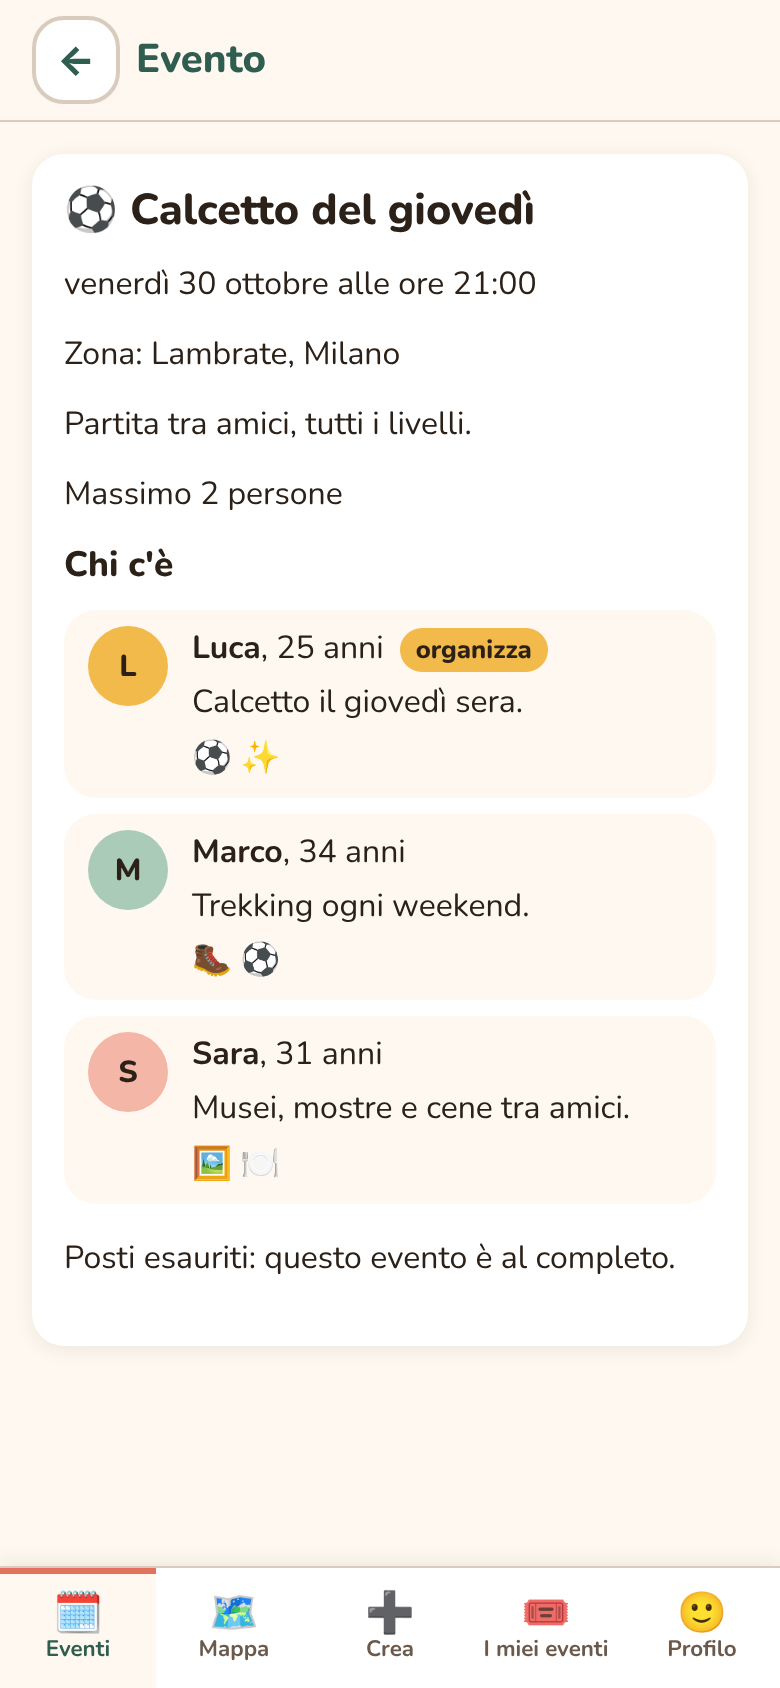
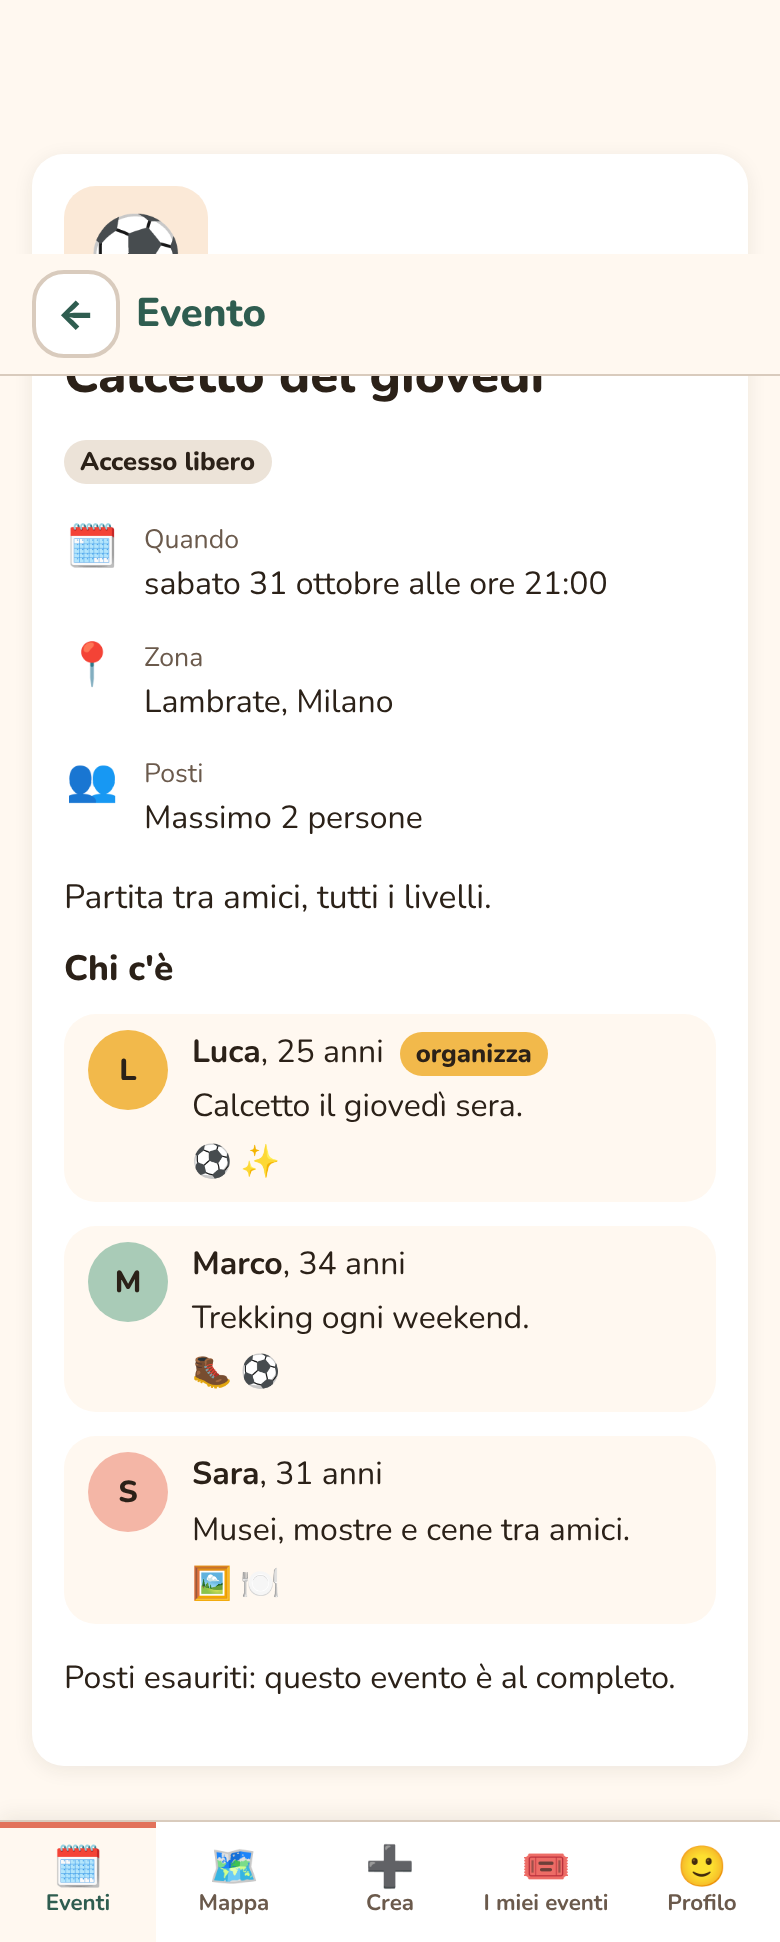
Task 24: schede evento, dettaglio con righe informative, stati vuoti
Claude-Session: https://claude.ai/code/session_01MWVcDmXPz6RAkLiwmBzRiP

diff --git a/src/screens/MyEventsScreen.tsx b/src/screens/MyEventsScreen.tsx
@@ -1,10 +1,10 @@
 import { useState } from 'react'
 import { useServices } from '../app/ServicesContext'
-import { EVENT_TYPE_EMOJI } from '../domain/eventTypes'
 import { cancelEvent } from '../events/cancelEvent'
-import { formatEventDate } from '../events/format'
 import { useMine } from '../mine/useMine'
 import { withdrawFromEvent } from '../participation/withdrawFromEvent'
+import { EmptyState } from '../ui/EmptyState'
+import { EventCard } from '../ui/EventCard'
 
 const STATO_LABEL = { richiesta: 'In attesa di risposta', confermato: 'Confermato', rifiutato: 'Rifiutato' } as const
 
@@ -26,41 +26,42 @@ export function MyEventsScreen({ uid, onOpen }: { uid: string; onOpen: (eventId:
   }
 
   return (
-    <section className="card">
+    <section className="screen">
       <h2>Che organizzo</h2>
       {loading && <p className="loading">Caricamento…</p>}
       {failed && <p role="alert" className="error">Non riesco a caricare i tuoi eventi.</p>}
       {error && <p role="alert" className="error">{error}</p>}
-      {!loading && !failed && mine.organized.length === 0 && <p>Non organizzi ancora nessun evento.</p>}
+      {!loading && !failed && mine.organized.length === 0 && <EmptyState emoji="🎈" text="Non organizzi ancora nessun evento." />}
       <ul className="event-list">
         {mine.organized.map((event) => (
           <li key={event.id}>
-            <button type="button" className="event-item" onClick={() => onOpen(event.id)}>
-              <span aria-hidden="true">{EVENT_TYPE_EMOJI[event.tipo]}</span> {event.titolo}
-              <small>{formatEventDate(event.dataOra)} · {event.stato === 'annullato' ? 'Annullato' : event.zonaNome}</small>
-            </button>
-            {event.stato !== 'annullato' && (
-              <button type="button" className="link" onClick={() => void run(() => cancelEvent(services.events, event.id, uid))}>
-                Annulla evento
-              </button>
-            )}
+            <EventCard
+              event={event}
+              onOpen={() => onOpen(event.id)}
+              footer={event.stato !== 'annullato' && (
+                <button type="button" className="link" onClick={() => void run(() => cancelEvent(services.events, event.id, uid))}>
+                  Annulla evento
+                </button>
+              )}
+            />
           </li>
         ))}
       </ul>
       <h2>Le mie iscrizioni</h2>
-      {!loading && !failed && mine.joined.length === 0 && <p>Non sei iscritto a nessun evento.</p>}
+      {!loading && !failed && mine.joined.length === 0 && <EmptyState emoji="👋" text="Non sei iscritto a nessun evento." />}
       <ul className="event-list">
         {mine.joined.map(({ event, participation }) => (
           <li key={event.id}>
-            <button type="button" className="event-item" onClick={() => onOpen(event.id)}>
-              <span aria-hidden="true">{EVENT_TYPE_EMOJI[event.tipo]}</span> {event.titolo}
-              <small>
-                {formatEventDate(event.dataOra)} · {event.stato === 'annullato' ? 'Evento annullato' : STATO_LABEL[participation.stato]}
-              </small>
-            </button>
-            <button type="button" className="link" onClick={() => void run(() => withdrawFromEvent(services.participations, event.id, uid))}>
-              {participation.stato === 'richiesta' ? 'Ritira la richiesta' : 'Ritirati'}
-            </button>
+            <EventCard
+              event={event}
+              onOpen={() => onOpen(event.id)}
+              note={event.stato === 'annullato' ? undefined : STATO_LABEL[participation.stato]}
+              footer={
+                <button type="button" className="link" onClick={() => void run(() => withdrawFromEvent(services.participations, event.id, uid))}>
+                  {participation.stato === 'richiesta' ? 'Ritira la richiesta' : 'Ritirati'}
+                </button>
+              }
+            />
           </li>
         ))}
       </ul>

diff --git a/src/styles/event-card.css b/src/styles/event-card.css
@@ -1,0 +1,31 @@
+/* Scheda evento, riga informativa del dettaglio, stato vuoto. */
+.event-card { background: var(--color-surface); border-radius: var(--radius); box-shadow: var(--shadow-card); overflow: hidden; }
+.event-card.is-cancelled { opacity: 0.75; }
+.event-card-main {
+  display: flex; gap: var(--space-3); align-items: flex-start; width: 100%; text-align: left;
+  background: none; border-radius: 0; padding: var(--space-4); font-weight: 400; min-height: 0;
+}
+.event-card-body { display: flex; flex-direction: column; gap: 2px; min-width: 0; }
+.event-card-title { font-weight: 800; font-size: 1.1rem; line-height: 1.25; }
+.event-card-meta { color: var(--color-muted); font-size: 0.92rem; }
+.event-card-badges { display: flex; flex-wrap: wrap; gap: var(--space-1) var(--space-2); margin-top: var(--space-2); }
+.event-card > button.link { margin: 0 var(--space-2) var(--space-2); }
+.event-emoji {
+  flex: none; display: inline-flex; align-items: center; justify-content: center;
+  width: 52px; height: 52px; border-radius: 16px; font-size: 1.7rem; background: #fbe9d7;
+}
+.event-emoji-lg { width: 72px; height: 72px; font-size: 2.4rem; }
+.type-trekking, .type-passeggiata { background: #dcebe3; }
+.type-mostra, .type-altro { background: #fbefc9; }
+.badge-neutral { background: #ece3d8; }
+.badge-accent { background: var(--color-accent); }
+.badge-warn { background: #f6d5d1; color: #7a1913; }
+.event-hero { display: flex; flex-direction: column; align-items: flex-start; gap: var(--space-2); margin-bottom: var(--space-4); }
+.event-hero h2 { margin: 0; font-size: 1.6rem; }
+.info-rows { list-style: none; padding: 0; margin: 0 0 var(--space-4); display: grid; gap: var(--space-3); }
+.info-row { display: flex; gap: var(--space-3); align-items: flex-start; }
+.info-icon { font-size: 1.3rem; width: 28px; text-align: center; }
+.event-description { font-size: 1.05rem; }
+.empty-state { text-align: center; color: var(--color-muted); padding: var(--space-6) var(--space-4); }
+.empty-emoji { display: block; font-size: 3rem; margin-bottom: var(--space-2); }
+.empty-state p { margin: 0; font-weight: 700; }

diff --git a/src/screens/EventListScreen.tsx b/src/screens/EventListScreen.tsx
@@ -1,10 +1,10 @@
 import { useMemo, useState } from 'react'
 import { useServices } from '../app/ServicesContext'
-import { EVENT_TYPE_EMOJI } from '../domain/eventTypes'
-import { formatEventDate } from '../events/format'
 import { useUpcomingEvents } from '../events/useUpcomingEvents'
 import { filterEvents, NO_FILTERS, type EventFilters } from '../filters/eventFilters'
 import { useMyPosition } from '../filters/useMyPosition'
+import { EmptyState } from '../ui/EmptyState'
+import { EventCard } from '../ui/EventCard'
 import { FiltersBar } from './FiltersBar'
 
 interface Props {
@@ -20,20 +20,15 @@ export function EventListScreen({ onOpen }: Props) {
   const shown = useMemo(() => filterEvents(list, filters), [list, filters])
 
   return (
-    <section className="card">
+    <section className="screen">
       <FiltersBar filters={filters} onChange={setFilters} position={position} onAskPosition={ask} />
       {loading && <p className="loading">Caricamento…</p>}
       {failed && <p role="alert" className="error">Non riesco a caricare gli eventi.</p>}
-      {!loading && !failed && list.length === 0 && <p className="empty">Nessun evento in programma.</p>}
-      {!loading && !failed && list.length > 0 && shown.length === 0 && <p className="empty">Nessun evento con questi filtri.</p>}
+      {!loading && !failed && list.length === 0 && <EmptyState emoji="🗓" text="Nessun evento in programma." />}
+      {!loading && !failed && list.length > 0 && shown.length === 0 && <EmptyState emoji="🔍" text="Nessun evento con questi filtri." />}
       <ul className="event-list">
         {shown.map((event) => (
-          <li key={event.id}>
-            <button type="button" className="event-item" onClick={() => onOpen(event.id)}>
-              <span aria-hidden="true">{EVENT_TYPE_EMOJI[event.tipo]}</span> {event.titolo}
-              <small>{formatEventDate(event.dataOra)} · {event.zonaNome}</small>
-            </button>
-          </li>
+          <li key={event.id}><EventCard event={event} onOpen={() => onOpen(event.id)} /></li>
         ))}
       </ul>
     </section>

diff --git a/src/screens/EventDetailScreen.tsx b/src/screens/EventDetailScreen.tsx
@@ -1,15 +1,14 @@
 import { useEffect, useState } from 'react'
 import { useServices } from '../app/ServicesContext'
 import type { FrienzyEvent } from '../domain/event'
-import { EVENT_TYPE_EMOJI } from '../domain/eventTypes'
 import { useEventPeople } from '../people/useEventPeople'
 import { useExactPlace } from '../place/useExactPlace'
+import { EventInfo } from './EventInfo'
 import { EventPeople } from './EventPeople'
 import { OrganizerActions } from './OrganizerActions'
 import { ParticipationActions } from './ParticipationActions'
 import { decideView } from '../participation/participationView'
 import { useEventParticipation } from '../participation/useEventParticipation'
-import { describeCapacity, formatEventDate } from '../events/format'
 
 // Dettaglio di un evento: la zona per tutti; l'indirizzo esatto solo a organizzatore e confermati.
 export function EventDetailScreen({ eventId }: { eventId: string }) {
@@ -38,16 +37,10 @@ export function EventDetailScreen({ eventId }: { eventId: string }) {
   if (state.loading) return <p className="card loading">Caricamento…</p>
   const event = state.event
   return (
-    <section className="card">
+    <section className="card detail">
       {event ? (
         <>
-          <h2>{EVENT_TYPE_EMOJI[event.tipo]} {event.titolo}</h2>
-          <p>{formatEventDate(event.dataOra)}</p>
-          <p>Zona: {event.zonaNome}</p>
-          {place && <p>Indirizzo: {place.indirizzo}</p>}
-          {event.descrizione && <p>{event.descrizione}</p>}
-          <p>{describeCapacity(event.maxPartecipanti)}</p>
-          {event.richiedeApprovazione && <p>L'organizzatore approva le richieste.</p>}
+          <EventInfo event={event} place={place} />
           <EventPeople people={people} />
           {uid && participation.loaded && (
             event.organizzatoreId === uid ? (

diff --git a/src/screens/EventInfo.tsx b/src/screens/EventInfo.tsx
@@ -1,0 +1,37 @@
+import type { ReactNode } from 'react'
+import type { ExactPlace, FrienzyEvent } from '../domain/event'
+import { EVENT_TYPE_EMOJI } from '../domain/eventTypes'
+import { eventBadges } from '../events/badges'
+import { describeCapacity, formatEventDate } from '../events/format'
+
+function Row({ icon, label, children }: { icon: string; label: string; children: ReactNode }) {
+  return (
+    <li className="info-row">
+      <span className="info-icon" aria-hidden="true">{icon}</span>
+      <span><small>{label}</small><br />{children}</span>
+    </li>
+  )
+}
+
+// Parte alta del dettaglio: emoji grande, titolo, badge e righe con quando / dove / posti.
+export function EventInfo({ event, place }: { event: FrienzyEvent; place: ExactPlace | null }) {
+  return (
+    <>
+      <header className="event-hero">
+        <span className={`event-emoji event-emoji-lg type-${event.tipo}`} aria-hidden="true">{EVENT_TYPE_EMOJI[event.tipo]}</span>
+        <h2>{event.titolo}</h2>
+        <span className="event-card-badges">
+          {eventBadges(event).map((b) => <span key={b.label} className={`badge badge-${b.tone}`}>{b.label}</span>)}
+        </span>
+      </header>
+      <ul className="info-rows">
+        <Row icon="🗓" label="Quando">{formatEventDate(event.dataOra)}</Row>
+        <Row icon="📍" label="Zona">{event.zonaNome}</Row>
+        {place && <Row icon="🏠" label="Indirizzo">{place.indirizzo}</Row>}
+        <Row icon="👥" label="Posti">{describeCapacity(event.maxPartecipanti)}</Row>
+      </ul>
+      {event.descrizione && <p className="event-description">{event.descrizione}</p>}
+      {event.richiedeApprovazione && <p className="muted">L'organizzatore approva le richieste.</p>}
+    </>
+  )
+}

diff --git a/src/ui/EventCard.tsx b/src/ui/EventCard.tsx
@@ -1,0 +1,34 @@
+import type { ReactNode } from 'react'
+import type { FrienzyEvent } from '../domain/event'
+import { EVENT_TYPE_EMOJI } from '../domain/eventTypes'
+import { eventBadges } from '../events/badges'
+import { describePlacesShort, formatShortDate } from '../events/format'
+
+interface Props {
+  event: FrienzyEvent
+  onOpen: () => void
+  /** Riga in più sotto la scheda, es. lo stato della mia iscrizione. */
+  note?: string
+  footer?: ReactNode
+}
+
+// Scheda di un evento: emoji grande, titolo, quando, dove, posti e badge. Tutta la scheda è un pulsante.
+export function EventCard({ event, onOpen, note, footer }: Props) {
+  return (
+    <article className={`event-card${event.stato === 'annullato' ? ' is-cancelled' : ''}`}>
+      <button type="button" className="event-card-main" onClick={onOpen}>
+        <span className={`event-emoji type-${event.tipo}`} aria-hidden="true">{EVENT_TYPE_EMOJI[event.tipo]}</span>
+        <span className="event-card-body">
+          <span className="event-card-title">{event.titolo}</span>
+          <span className="event-card-meta">{formatShortDate(event.dataOra)}</span>
+          <span className="event-card-meta">{event.zonaNome} · {describePlacesShort(event.maxPartecipanti)}</span>
+          <span className="event-card-badges">
+            {eventBadges(event).map((b) => <span key={b.label} className={`badge badge-${b.tone}`}>{b.label}</span>)}
+            {note && <span className="badge badge-neutral">{note}</span>}
+          </span>
+        </span>
+      </button>
+      {footer}
+    </article>
+  )
+}

diff --git a/src/events/badges.test.ts b/src/events/badges.test.ts
@@ -1,0 +1,27 @@
+import type { FrienzyEvent } from '../domain/event'
+import { eventBadges } from './badges'
+import { describePlacesShort, formatShortDate } from './format'
+
+const base: FrienzyEvent = {
+  id: 'e1', organizzatoreId: 'o', tipo: 'cena', titolo: 'T', descrizione: '', dataOra: new Date(),
+  zonaNome: 'Z', latApprossimata: 0, lngApprossimata: 0, geohash: 'u', maxPartecipanti: 4,
+  richiedeApprovazione: false, stato: 'aperto', creatoIl: new Date(),
+}
+
+describe('badge degli eventi', () => {
+  it('evento libero', () => expect(eventBadges(base)).toEqual([{ label: 'Accesso libero', tone: 'neutral' }]))
+  it('evento con approvazione', () =>
+    expect(eventBadges({ ...base, richiedeApprovazione: true })).toEqual([{ label: 'Su approvazione', tone: 'accent' }]))
+  it('annullato ha la precedenza', () =>
+    expect(eventBadges({ ...base, richiedeApprovazione: true, stato: 'annullato' })).toEqual([{ label: 'Annullato', tone: 'warn' }]))
+})
+
+describe('formati brevi', () => {
+  it('data breve senza punti', () => {
+    expect(formatShortDate(new Date('2026-10-31T18:30:00Z'), 'UTC')).toMatch(/^sab 31 ott · 18:30$/)
+  })
+  it('posti', () => {
+    expect(describePlacesShort(1)).toBe('Fino a 1 persona')
+    expect(describePlacesShort(8)).toBe('Fino a 8 persone')
+  })
+})

diff --git a/src/events/format.ts b/src/events/format.ts
@@ -14,3 +14,16 @@ export function formatEventDate(date: Date, timeZone?: string): string {
 export function describeCapacity(max: number): string {
   return max === 1 ? 'Massimo 1 persona' : `Massimo ${max} persone`
 }
+
+/** Data breve per le schede, es. "sab 31 ott · 19:30". */
+export function formatShortDate(date: Date, timeZone?: string): string {
+  const opts = { timeZone } as const
+  const day = new Intl.DateTimeFormat('it-IT', { weekday: 'short', day: 'numeric', month: 'short', ...opts }).format(date)
+  const time = new Intl.DateTimeFormat('it-IT', { hour: '2-digit', minute: '2-digit', ...opts }).format(date)
+  return `${day.replace(/\./g, '')} · ${time}`
+}
+
+/** Posti in forma breve per le schede, es. "Fino a 8 persone". */
+export function describePlacesShort(max: number): string {
+  return max === 1 ? 'Fino a 1 persona' : `Fino a ${max} persone`
+}

diff --git a/src/styles/lists.css b/src/styles/lists.css
@@ -1,10 +1,4 @@
-.event-list, .people, .requests { list-style: none; padding: 0; margin: 0 0 var(--space-4); display: grid; gap: var(--space-2); }
-.event-item {
-  display: block; width: 100%; text-align: left; padding: var(--space-3) var(--space-4);
-  background: var(--color-background); color: var(--color-text);
-  border: 2px solid var(--color-border); font-weight: 800;
-}
-.event-item small { display: block; font-weight: 400; }
+.event-list, .people, .requests { list-style: none; padding: 0; margin: 0 0 var(--space-4); display: grid; gap: var(--space-3); }
 .people li, .requests li { background: var(--color-background); border-radius: var(--radius); padding: var(--space-2) var(--space-3); }
 .row-actions { display: flex; gap: var(--space-2); margin-top: 6px; }
 .filters { display: grid; gap: var(--space-2); margin-bottom: var(--space-3); }

diff --git a/src/config/contrastPairs.ts b/src/config/contrastPairs.ts
@@ -16,6 +16,9 @@ export const PAIRS = [
   { name: 'bianco su secondario (filtri attivi)', fg: WHITE, bg: secondary, min: 4.5 },
   { name: 'testo secondario (grigio caldo su sfondo)', fg: '#6b5a4c', bg: background, min: 4.5 },
   { name: 'errori (rosso su schede bianche)', fg: '#b3261e', bg: WHITE, min: 4.5 },
+  { name: 'badge neutro (testo su beige)', fg: text, bg: '#ece3d8', min: 4.5 },
+  { name: 'badge annullato', fg: '#7a1913', bg: '#f6d5d1', min: 4.5 },
+  { name: 'testo secondario su scheda bianca', fg: '#6b5a4c', bg: WHITE, min: 4.5 },
   { name: 'bordo marker (primario su bianco)', fg: primary, bg: WHITE, min: 3 },
   ...AVATAR_COLORS.map((c) => ({ name: `iniziali su avatar ${c}`, fg: text, bg: c, min: 4.5 })),
 ] as const

diff --git a/src/events/badges.ts b/src/events/badges.ts
@@ -1,0 +1,14 @@
+import type { FrienzyEvent } from '../domain/event'
+
+export interface EventBadge {
+  label: string
+  tone: 'neutral' | 'accent' | 'warn'
+}
+
+/** Etichette di una scheda evento: annullato, oppure libero / su approvazione. */
+export function eventBadges(event: FrienzyEvent): EventBadge[] {
+  if (event.stato === 'annullato') return [{ label: 'Annullato', tone: 'warn' }]
+  return event.richiedeApprovazione
+    ? [{ label: 'Su approvazione', tone: 'accent' }]
+    : [{ label: 'Accesso libero', tone: 'neutral' }]
+}

diff --git a/src/screens/eventBrowsing.test.tsx b/src/screens/eventBrowsing.test.tsx
@@ -39,7 +39,7 @@ describe('elenco e dettaglio eventi', () => {
 
     fireEvent.click(items[0])
     expect(await screen.findByRole('heading', { name: /Vicino/ })).toBeInTheDocument()
-    expect(screen.getByText('Zona: Navigli')).toBeInTheDocument()
+    expect(screen.getByText('Navigli')).toBeInTheDocument()
     expect(screen.getByText('Massimo 8 persone')).toBeInTheDocument()
     expect(screen.queryByText(/Via Segreta/)).toBeNull()
 
